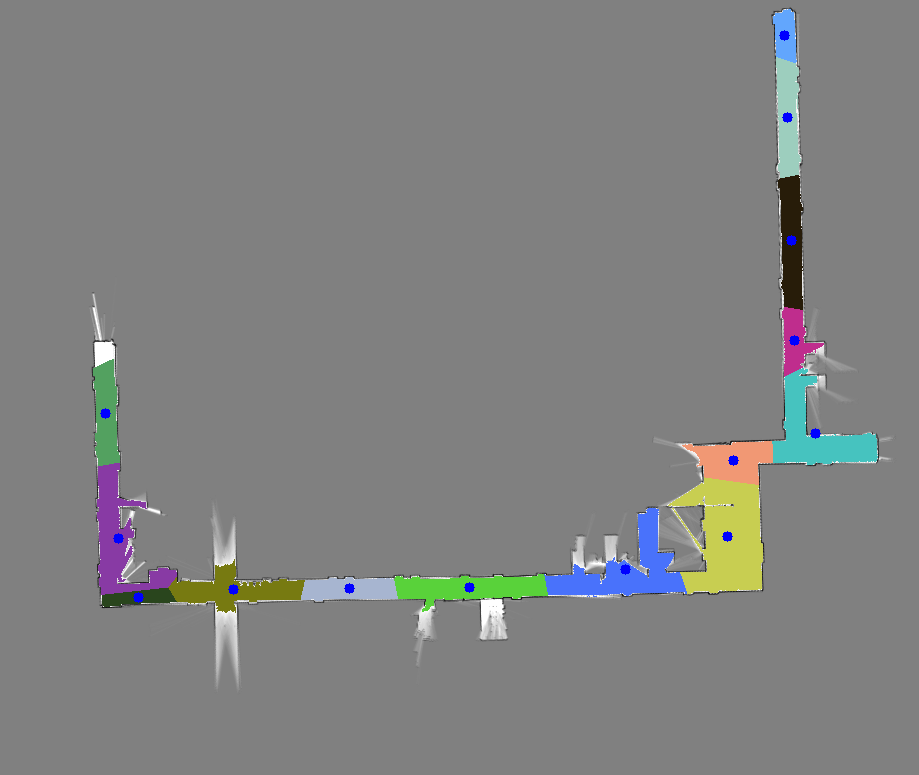
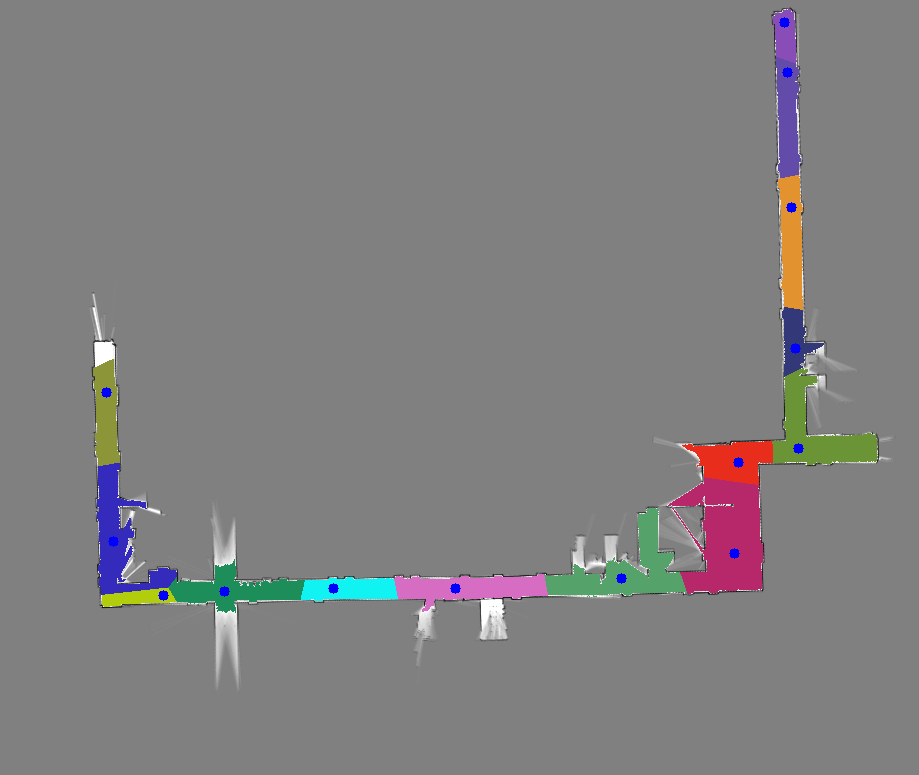
add centroid.json

Changed region(s): [[0.0914, 0.0, 0.975, 0.8052]]

diff --git a/run_auto_seg.py b/run_auto_seg.py
@@ -1,17 +1,20 @@
 import numpy as np
 import cv2
 import argparse
+import json  # JSON 처리를 위한 모듈 추가
 
 class RoomSegmentation:
-    def __init__(self, img_path, n_segments=50, min_area=500, output_file="output_map.png"):
+    def __init__(self, img_path, n_segments=50, min_area=500, output_file="output_map.png", json_output="centroids.json"):
         self.img_path = img_path
         self.n_segments = n_segments
         self.min_area = min_area
         self.output_file = output_file
+        self.json_output = json_output  
         self.img = cv2.imread(img_path)
         if self.img is None:
             raise FileNotFoundError(f"cannot find image file: {img_path}")
         
+        # 결과 저장용 변수들
         self.labels = None
         self.mask = None
         self.polygon_list_map = []
@@ -77,8 +80,9 @@ class RoomSegmentation:
                 
                 for contour in contours:
                     area = cv2.contourArea(contour)
+                     # ignore small segments
                     if area < self.min_area:
-                        continue  # ignore small segments
+                        continue 
                     
                     contour_map_coords = []
                     for point in contour:
@@ -87,12 +91,43 @@ class RoomSegmentation:
                     
                     self.polygon_list_map.append(contour_map_coords)
                     
-                    # calculate centroid
-                    M = cv2.moments(contour)
-                    if M["m00"] != 0:
-                        centroid_x = int(M["m10"] / M["m00"])
-                        centroid_y = int(M["m01"] / M["m00"])
-                        self.centroid_list.append([centroid_x, centroid_y])
+                    # improve centroid calculation - use distance transform based method
+                    mask_contour = np.zeros_like(mask_seg_uint8)
+                    cv2.drawContours(mask_contour, [contour], 0, 255, -1)
+                    
+                    # apply distance transform    
+                    dist_transform = cv2.distanceTransform(mask_contour, cv2.DIST_L2, 5)
+                    _, max_val, _, max_loc = cv2.minMaxLoc(dist_transform)
+                    
+                    # use the maximum distance point as the centroid
+                    centroid_x, centroid_y = max_loc
+                    
+                    # check if the centroid is inside the polygon
+                    if cv2.pointPolygonTest(contour, (centroid_x, centroid_y), False) < 0:
+                        # if the centroid is not inside the polygon, calculate using the moment method
+                        M = cv2.moments(contour)
+                        if M["m00"] != 0:
+                            centroid_x = int(M["m10"] / M["m00"])
+                            centroid_y = int(M["m01"] / M["m00"])
+                            
+                        # if the centroid is still not inside the polygon, find a random point inside the polygon
+                        if cv2.pointPolygonTest(contour, (centroid_x, centroid_y), False) < 0:
+                                # sample a point inside the polygon
+                                x, y, w, h = cv2.boundingRect(contour)
+                                found = False
+                                for _ in range(100):  # try up to 100 times
+                                    sample_x = np.random.randint(x, x + w)
+                                    sample_y = np.random.randint(y, y + h)
+                                    if cv2.pointPolygonTest(contour, (sample_x, sample_y), False) >= 0:
+                                        centroid_x, centroid_y = sample_x, sample_y
+                                        found = True
+                                        break
+                                
+                                # if still not found, use the first point of the polygon
+                                if not found:
+                                    centroid_x, centroid_y = contour[0][0]
+                    
+                    self.centroid_list.append([centroid_x, centroid_y])
         
         return self.polygon_list_map, self.centroid_list
     
@@ -116,6 +151,19 @@ class RoomSegmentation:
         cv2.imwrite(self.output_file, img)
         print(f"result image saved: {self.output_file}")
     
+    def save_centroids_to_json(self):
+        """save centroids to JSON file"""
+        room_data = {}
+        
+        for i, centroid in enumerate(self.centroid_list):
+            room_name = f"room{i+1}"
+            room_data[room_name] = {"x": float(centroid[0]), "y": float(centroid[1])}
+        
+        with open(self.json_output, 'w') as json_file:
+            json.dump(room_data, json_file, indent=4)
+        
+        print(f"centroids data saved to JSON file: {self.json_output}")
+    
     def run(self):
         """run entire process"""
         # preprocess image
@@ -137,6 +185,9 @@ class RoomSegmentation:
         # save result
         self.save_result(final_img)
         
+        # save centroids to JSON
+        self.save_centroids_to_json()
+        
         # show step-by-step images in OpenCV window
         top_row = np.hstack((self.img, img_contours))  
         bottom_row = np.hstack((img_colored, final_img))  
@@ -148,11 +199,12 @@ class RoomSegmentation:
     
 
 def main():
-    parser = argparse.ArgumentParser(description="auto room segmentation")
+    parser = argparse.ArgumentParser(description="automatic room segmentation")
     parser.add_argument("--img_path", type=str, required=True, help="input PGM file path")
     parser.add_argument("--n_segments", type=int, default=80, help="number of segments")
     parser.add_argument("--min_area", type=int, default=500, help="minimum segment area")
-    parser.add_argument("--output", type=str, default="output.png", help="output file name")
+    parser.add_argument("--output", type=str, default="output_map.png", help="output image file name")
+    parser.add_argument("--json_output", type=str, default="centroids.json", help="centroids JSON output file name")
     
     args = parser.parse_args()
     
@@ -160,7 +212,8 @@ def main():
         img_path=args.img_path,
         n_segments=args.n_segments,
         min_area=args.min_area,
-        output_file=args.output
+        output_file=args.output,
+        json_output=args.json_output
     )
     
     segmentation.run()
